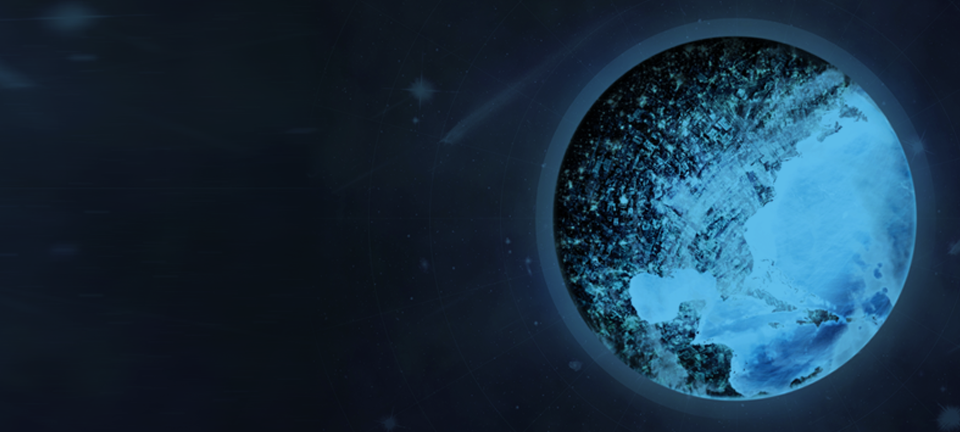
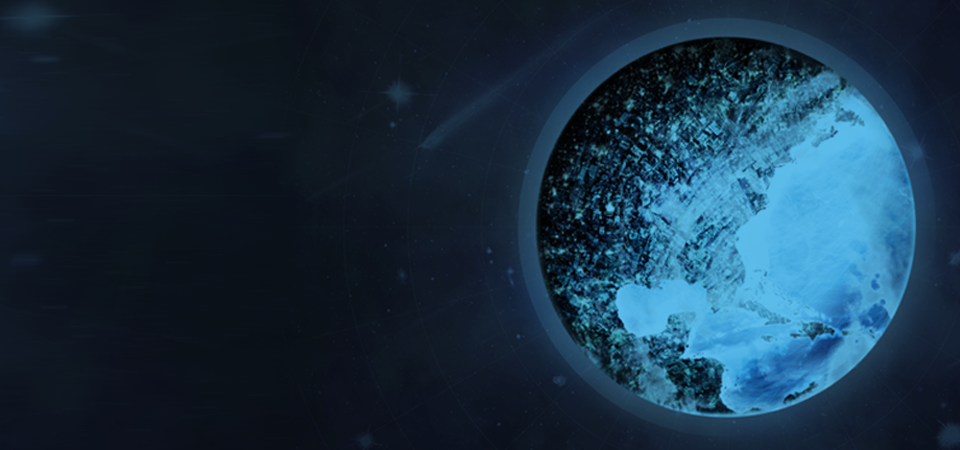
EDS updates

diff --git a/css/eds-styles.css b/css/eds-styles.css
@@ -93,7 +93,7 @@ body {
 
 #banner {
   background: #97ddf7 url(../img/eds_blue-background.png) repeat-x center top;
-  height: 432px;
+  height: 450px;
   padding: 36px 38px 36px 55px;
   border-bottom: 1px solid #263640; }
 
@@ -138,9 +138,9 @@ border-bottom: 26px solid white;
 }*/
 #banner > .bannerContent .logo {
   display: block;
-  width: 223px;
+  width: 225px;
   height: 58px;
-  background: url(../img/polaris-logo-white.png) no-repeat left top;
+  background: url(../img/eds_logo_white.png) no-repeat left top;
   margin: 0 0 12px 0; }
 
 #banner > .bannerContent p {
@@ -234,15 +234,17 @@ border-bottom: 26px solid white;
     text-align: center; }
   #usage > p, #featureusage > p {
     text-align: center;
-    margin: 0 auto; }
+    margin: 0 auto;
+	font-size:1.2em; }
   #usage div.usageItems, #usage div.featureusageitems, #featureusage div.usageItems, #featureusage div.featureusageitems {
-    height: 150px; }
+    height: 150px;
+	margin-right:15px; }
   #usage div.bubble, #usage div.featurebubble, #featureusage div.bubble, #featureusage div.featurebubble {
     width: 15%;
     height: 100%;
     float: left;
     margin-top: 5px;
-	margin-right:16px;
+	margin-left:15px;
     cursor: pointer;
     font-family: 'rokkittregular';
     font-weight: bold;

diff --git a/EDS-code-test.html b/EDS-code-test.html
@@ -271,7 +271,7 @@ Data Science Concepts and Techniques</h2>
 		<a title="Previous" class="previous"></a> <a title="Next" class="next"></a>
 	</div>
 	<h2>Preview</h2>
-	<p>Take a look at the interface and other interactive features that <em>Explore Data Science</em> has to offer.</p>
+	<p style="color:#fff;">Take a look at the interface and other interactive features that <em>Explore Data Science</em> has to offer.</p>
 	<div id="flowPreview" class="image-flow" style="height: 300px">
 		<div class="flow-item">
 			<img src="img/screenshots/thumbs/GanttChart.png" data-full="img/screenshots/GanttChart.png"/>
